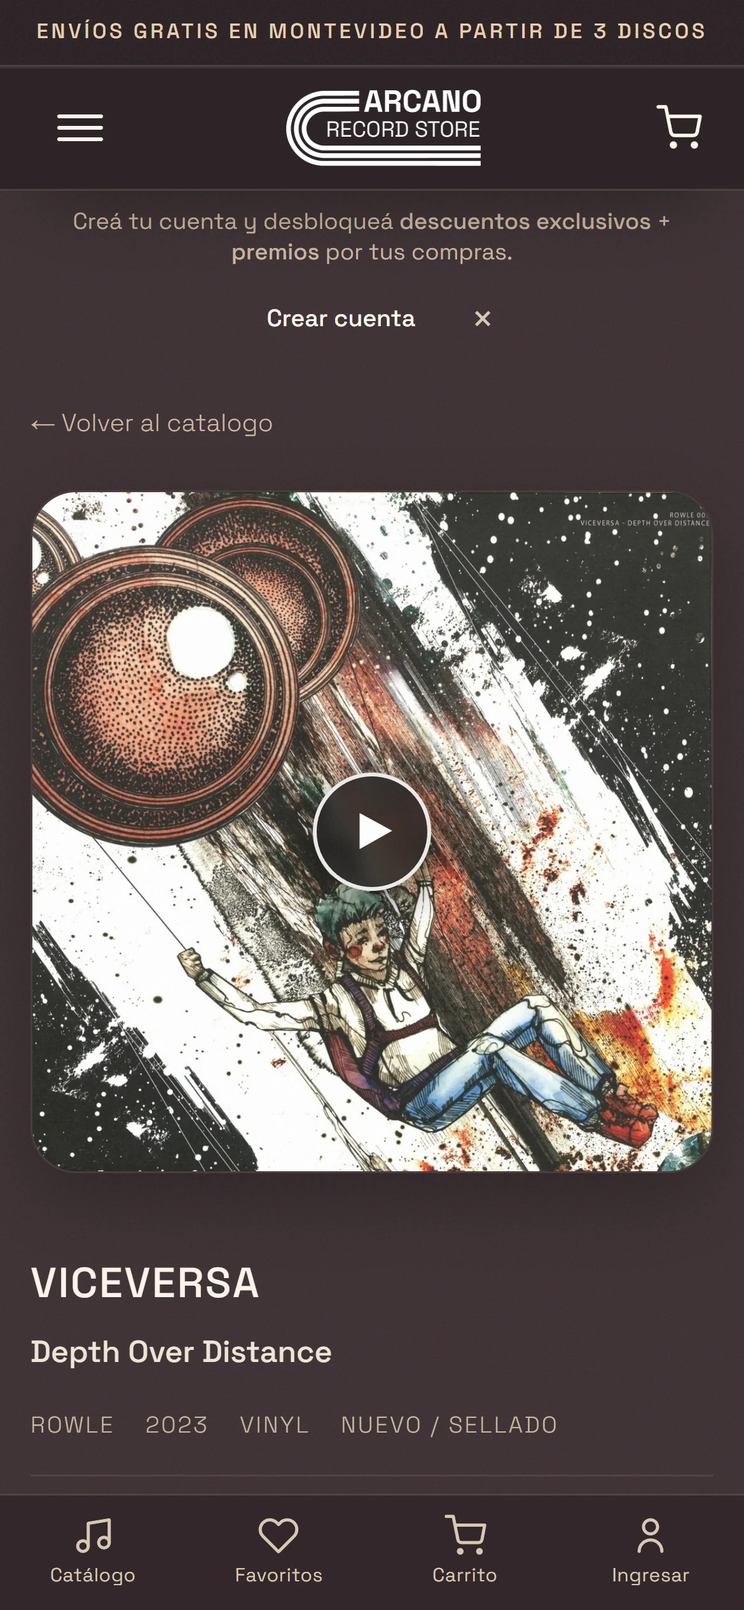
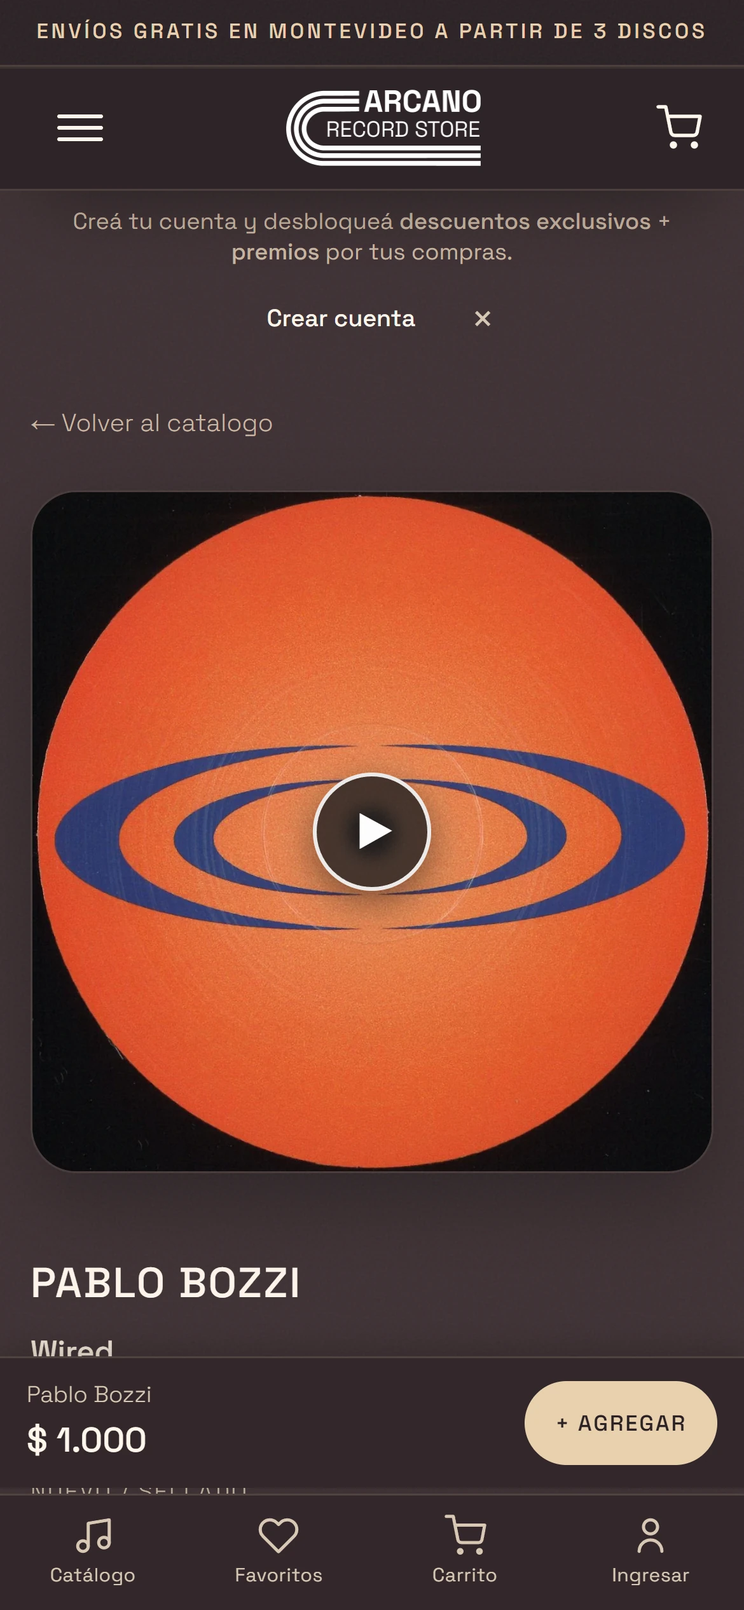
Capturas actualizadas de la tienda de Arcano y de Second Brain

diff --git a/index.html b/index.html
@@ -499,7 +499,7 @@ figcaption b { color: var(--ink); font-weight: 650; }
 <h2>Arcano Record Store</h2><p class="lede">Tienda online de mi disquería.</p>
 <div class="links"><a href="https://arcanorecordstore.com" target="_blank" rel="noopener">arcanorecordstore.com ↗</a><a href="https://github.com/arcanorecordstore-creator/arcano-stock" target="_blank" rel="noopener">Ver código ↗</a></div>
 <dl class="summary"><div><dt>Problema</dt><dd>Las ventas se realizaban exclusivamente a través de mensajes de Instagram.</dd></div><div><dt>Solución</dt><dd>Una tienda online conectada al stock real, en la que cada disco puede escucharse, reservarse o pagarse en línea.</dd></div><div><dt>Resultado</dt><dd>En funcionamiento desde agosto de 2026 en arcanorecordstore.com, con más de 50 ventas a través de la tienda online.</dd></div><div><dt>Mi rol</dt><dd>Como dueño del negocio y del producto, me encargué de la definición, el diseño, las pruebas y la publicación.</dd></div></dl>
-<figure class="comp"><div class="comp-stage"><div class="browser"><div class="bar"><i></i><i></i><i></i><em>arcanorecordstore.com</em></div><button class="shot" type="button"><img src="img/ar-t-home.webp?v=853b00f6" alt="Portada de la tienda con el buscador y el carrusel de destacados" loading="lazy" decoding="async" width="2880" height="1800"></button></div><div class="phone"><button class="shot" type="button"><img src="img/ar-t-m-disco.webp?v=1f4d5261" alt="Portada de la tienda con el buscador y el carrusel de destacados" loading="lazy" decoding="async" width="1170" height="2532"></button></div></div><figcaption><b>Portada.</b> Incluye el buscador, los beneficios de compra y el primer carrusel. Cada tapa cuenta con su propio botón de reproducción.</figcaption></figure>
+<figure class="comp"><div class="comp-stage"><div class="browser"><div class="bar"><i></i><i></i><i></i><em>arcanorecordstore.com</em></div><button class="shot" type="button"><img src="img/ar-t-home.webp?v=1f4bf4b1" alt="Portada de la tienda con el buscador y el carrusel de destacados" loading="lazy" decoding="async" width="2880" height="1800"></button></div><div class="phone"><button class="shot" type="button"><img src="img/ar-t-m-disco.webp?v=c917dbbd" alt="Portada de la tienda con el buscador y el carrusel de destacados" loading="lazy" decoding="async" width="1170" height="2532"></button></div></div><figcaption><b>Portada.</b> Incluye el buscador, los beneficios de compra y el primer carrusel. Cada tapa cuenta con su propio botón de reproducción.</figcaption></figure>
 <div class="body"><div class="prose">
 <section><h3>Decisiones de proyecto</h3><div class="decisions"><div class="decision"><h4>Venta anticipada mediante Pre-order</h4><p>Los discos de cada pedido se publican en Pre-order mientras están en tránsito. Esto permite que los clientes los reserven antes de su llegada, anticipar las ventas del pedido y conocer la demanda antes de realizar la siguiente compra.</p></div><div class="decision"><h4>La escucha como eje de la tienda</h4><p>En los vinilos de música electrónica, la decisión de compra se toma escuchando. Por ese motivo, el reproductor, las muestras de cada canción y el registro de escuchas ocupan un lugar central en la tienda.</p></div></div></section>
 </div><aside class="facts"><dl>
@@ -508,9 +508,9 @@ figcaption b { color: var(--ink); font-weight: 650; }
 <div><dt>Tecnologías</dt><dd class="tags"><span>Python</span><span>Flask</span><span>SQLAlchemy</span><span>SQLite</span><span>Jinja</span><span>JavaScript</span><span>Mercado Pago</span><span>Render</span><span>Cloudflare</span></dd></div>
 </dl></aside></div>
 <div class="gallery">
-<figure><div class="browser"><div class="bar"><i></i><i></i><i></i><em>arcanorecordstore.com</em></div><button class="shot" type="button"><img src="img/ar-t-nuevos.webp?v=2d8b83cb" alt="Nuevos ingresos. Los discos se presentan como vinilos que giran durante la reproducción." loading="lazy" decoding="async" width="2880" height="1800"></button></div><figcaption><b>Nuevos ingresos.</b> Los discos se presentan como vinilos que giran durante la reproducción.</figcaption></figure>
-<figure><div class="browser"><div class="bar"><i></i><i></i><i></i><em>arcanorecordstore.com/#catalogo</em></div><button class="shot" type="button"><img src="img/ar-t-catalogo.webp?v=835f68f7" alt="Catálogo. Filtros con la cantidad de discos por opción, vista en grilla o lista, e indicadores de Pre-order y Nuevo." loading="lazy" decoding="async" width="2880" height="1800"></button></div><figcaption><b>Catálogo.</b> Filtros con la cantidad de discos por opción, vista en grilla o lista, e indicadores de Pre-order y Nuevo.</figcaption></figure>
-<figure><div class="browser"><div class="bar"><i></i><i></i><i></i><em>arcanorecordstore.com/viceversa-depth-over-distance</em></div><button class="shot" type="button"><img src="img/ar-t-disco2.webp?v=193b7095" alt="Tracklist. Cada canción puede escucharse desde la ficha y continúa en el reproductor flotante." loading="lazy" decoding="async" width="2880" height="1800"></button></div><figcaption><b>Tracklist.</b> Cada canción puede escucharse desde la ficha y continúa en el reproductor flotante.</figcaption></figure>
+<figure><div class="browser"><div class="bar"><i></i><i></i><i></i><em>arcanorecordstore.com</em></div><button class="shot" type="button"><img src="img/ar-t-nuevos.webp?v=64c79a19" alt="Nuevos ingresos. Los discos se presentan como vinilos que giran durante la reproducción." loading="lazy" decoding="async" width="2880" height="1800"></button></div><figcaption><b>Nuevos ingresos.</b> Los discos se presentan como vinilos que giran durante la reproducción.</figcaption></figure>
+<figure><div class="browser"><div class="bar"><i></i><i></i><i></i><em>arcanorecordstore.com/#catalogo</em></div><button class="shot" type="button"><img src="img/ar-t-catalogo.webp?v=f31b0f5a" alt="Catálogo. Playlists para escuchar, filtros por género, año, precio y condición, vista en grilla o lista, e indicadores de Pre-order y Nuevo." loading="lazy" decoding="async" width="2880" height="1800"></button></div><figcaption><b>Catálogo.</b> Playlists para escuchar, filtros por género, año, precio y condición, vista en grilla o lista, e indicadores de Pre-order y Nuevo.</figcaption></figure>
+<figure><div class="browser"><div class="bar"><i></i><i></i><i></i><em>arcanorecordstore.com/pablo-bozzi-wired</em></div><button class="shot" type="button"><img src="img/ar-t-disco2.webp?v=fcec97e7" alt="Tracklist. Cada canción puede escucharse desde la ficha y continúa en el reproductor flotante." loading="lazy" decoding="async" width="2880" height="1800"></button></div><figcaption><b>Tracklist.</b> Cada canción puede escucharse desde la ficha y continúa en el reproductor flotante.</figcaption></figure>
 </div>
 </article>
 <article class="project wrap" id="stock-es" data-p="arcano">
@@ -558,7 +558,7 @@ figcaption b { color: var(--ink); font-weight: 650; }
 <h2>Second Brain</h2><p class="lede">Una única aplicación para registrar hábitos, escribir, controlar gastos y planificar la semana, que además relaciona los datos entre sí.</p>
 <div class="links"><a href="https://github.com/facundolapente-blip/second-brain" target="_blank" rel="noopener">Ver código ↗</a></div>
 <dl class="summary"><div><dt>Problema</dt><dd>Utilizaba cuatro aplicaciones pagas e independientes (HabitNow, My Diary, una app de gastos y Notion) que no se ajustaban del todo a mis necesidades.</dd></div><div><dt>Solución</dt><dd>Una única aplicación que las reemplaza, importa el historial de cada una e incorpora un tablero que integra toda la información. Suma además un bot de WhatsApp que, a partir de un comando, categoriza cada mensaje y lo carga en la aplicación sin necesidad de ingresar a ella.</dd></div><div><dt>Resultado</dt><dd>En uso diario desde octubre de 2026, con 114 versiones publicadas en 11 días.</dd></div><div><dt>Mi rol</dt><dd>Usuario, diseñador y responsable de producto. De cada aplicación conservé las funciones que mejor resultaban.</dd></div></dl>
-<figure class="comp"><div class="comp-stage"><div class="browser"><div class="bar"><i></i><i></i><i></i><em>Second Brain · Inicio</em></div><button class="shot" type="button"><img src="img/sb-inicio.webp?v=8a4d2b91" alt="Inicio de Second Brain con el resumen del día" loading="lazy" decoding="async" width="2880" height="1800"></button></div><div class="phone"><button class="shot" type="button"><img src="img/sb-m-habitos.webp?v=391f6c2d" alt="Inicio de Second Brain con el resumen del día" loading="lazy" decoding="async" width="1170" height="2532"></button></div></div><figcaption><b>Inicio.</b> Resumen del día en una frase, cinco indicadores clave y las listas de hábitos y del plan de hoy.</figcaption></figure>
+<figure class="comp"><div class="comp-stage"><div class="browser"><div class="bar"><i></i><i></i><i></i><em>Second Brain · Inicio</em></div><button class="shot" type="button"><img src="img/sb-inicio.webp?v=3d100947" alt="Inicio de Second Brain con el resumen del día" loading="lazy" decoding="async" width="2880" height="1800"></button></div><div class="phone"><button class="shot" type="button"><img src="img/sb-m-habitos.webp?v=15cc3375" alt="Inicio de Second Brain con el resumen del día" loading="lazy" decoding="async" width="1170" height="2532"></button></div></div><figcaption><b>Inicio.</b> Saludo con el resumen del día, la tarea prioritaria, el registro de cómo estás y el plan de hoy.</figcaption></figure>
 <div class="body"><div class="prose">
 <section><h3>Decisiones de proyecto</h3><div class="decisions"><div class="decision"><h4>Registro de gastos en segundos</h4><p>Un gasto se registra escribiendo una línea como &quot;350 almuerzo itau&quot;. La aplicación interpreta el monto, la cuenta y la fecha, y sugiere la categoría a partir de la clasificación de gastos anteriores.</p></div><div class="decision"><h4>Finanzas personales con criterio empresarial</h4><p>Incluye proyección del cierre del mes, presupuestos por categoría, tarjetas con fecha de cierre y cuotas, metas de ahorro y patrimonio en pesos según la cotización del día.</p></div></div></section>
 </div><aside class="facts"><dl>
@@ -566,9 +566,9 @@ figcaption b { color: var(--ink); font-weight: 650; }
 <div><dt>Tecnologías</dt><dd class="tags"><span>Next.js 16</span><span>React 19</span><span>TypeScript</span><span>Prisma</span><span>PostgreSQL</span><span>Tailwind</span><span>Recharts</span><span>Vercel</span></dd></div>
 </dl></aside></div>
 <div class="gallery">
-<figure><div class="browser"><div class="bar"><i></i><i></i><i></i><em>Second Brain · Gastos</em></div><button class="shot" type="button"><img src="img/sb-gastos.webp?v=0b4228cc" alt="Gastos. Carga rápida en lenguaje natural, saldos en pesos y dólares, y gasto por categoría." loading="lazy" decoding="async" width="2880" height="1800"></button></div><figcaption><b>Gastos.</b> Carga rápida en lenguaje natural, saldos en pesos y dólares, y gasto por categoría.</figcaption></figure>
-<figure><div class="browser"><div class="bar"><i></i><i></i><i></i><em>Second Brain · Plan semanal</em></div><button class="shot" type="button"><img src="img/sb-tareas.webp?v=8b2ae562" alt="Plan semanal. Tareas organizadas por estado, con prioridad y vencimiento, y debajo la semana en bloques." loading="lazy" decoding="async" width="2880" height="1800"></button></div><figcaption><b>Plan semanal.</b> Tareas organizadas por estado, con prioridad y vencimiento, y debajo la semana en bloques.</figcaption></figure>
-<figure><div class="browser"><div class="bar"><i></i><i></i><i></i><em>Second Brain · Análisis</em></div><button class="shot" type="button"><img src="img/sb-analisis.webp?v=a741b0f5" alt="Análisis. Relaciones entre módulos, con un mínimo de días por grupo para cada conclusión." loading="lazy" decoding="async" width="2880" height="1800"></button></div><figcaption><b>Análisis.</b> Relaciones entre módulos, con un mínimo de días por grupo para cada conclusión.</figcaption></figure>
+<figure><div class="browser"><div class="bar"><i></i><i></i><i></i><em>Second Brain · Gastos</em></div><button class="shot" type="button"><img src="img/sb-gastos.webp?v=2d43efe9" alt="Gastos. Carga rápida en lenguaje natural, saldos en pesos y dólares, y gasto por categoría." loading="lazy" decoding="async" width="2880" height="1800"></button></div><figcaption><b>Gastos.</b> Carga rápida en lenguaje natural, saldos en pesos y dólares, y gasto por categoría.</figcaption></figure>
+<figure><div class="browser"><div class="bar"><i></i><i></i><i></i><em>Second Brain · Plan semanal</em></div><button class="shot" type="button"><img src="img/sb-tareas.webp?v=70243786" alt="Plan semanal. Tareas organizadas por estado, con prioridad y vencimiento, y debajo la semana en bloques." loading="lazy" decoding="async" width="2880" height="1800"></button></div><figcaption><b>Plan semanal.</b> Tareas organizadas por estado, con prioridad y vencimiento, y debajo la semana en bloques.</figcaption></figure>
+<figure><div class="browser"><div class="bar"><i></i><i></i><i></i><em>Second Brain · Análisis</em></div><button class="shot" type="button"><img src="img/sb-analisis.webp?v=bb130fd6" alt="Análisis. Relaciones entre módulos, con un mínimo de días por grupo para cada conclusión." loading="lazy" decoding="async" width="2880" height="1800"></button></div><figcaption><b>Análisis.</b> Relaciones entre módulos, con un mínimo de días por grupo para cada conclusión.</figcaption></figure>
 </div>
 <p class="note">Las capturas utilizan una base de demostración, con hábitos, gastos y entradas ficticias.</p>
 </article>
@@ -606,7 +606,7 @@ figcaption b { color: var(--ink); font-weight: 650; }
 <h2>Arcano Record Store</h2><p class="lede">Online store of my record shop.</p>
 <div class="links"><a href="https://arcanorecordstore.com" target="_blank" rel="noopener">arcanorecordstore.com ↗</a><a href="https://github.com/arcanorecordstore-creator/arcano-stock" target="_blank" rel="noopener">View code ↗</a></div>
 <dl class="summary"><div><dt>Problem</dt><dd>Sales were handled exclusively through Instagram messages.</dd></div><div><dt>Solution</dt><dd>An online store connected to real inventory, where each record can be played, reserved or paid for online.</dd></div><div><dt>Outcome</dt><dd>Running since August 2026 at arcanorecordstore.com, with more than 50 sales through the online store.</dd></div><div><dt>My role</dt><dd>As owner of the business and the product, I handled its definition, design, testing and release.</dd></div></dl>
-<figure class="comp"><div class="comp-stage"><div class="browser"><div class="bar"><i></i><i></i><i></i><em>arcanorecordstore.com</em></div><button class="shot" type="button"><img src="img/ar-t-home.webp?v=853b00f6" alt="Store home page with search and the featured carousel" loading="lazy" decoding="async" width="2880" height="1800"></button></div><div class="phone"><button class="shot" type="button"><img src="img/ar-t-m-disco.webp?v=1f4d5261" alt="Store home page with search and the featured carousel" loading="lazy" decoding="async" width="1170" height="2532"></button></div></div><figcaption><b>Home page.</b> It includes search, purchase benefits and the first carousel. Each cover has its own play button.</figcaption></figure>
+<figure class="comp"><div class="comp-stage"><div class="browser"><div class="bar"><i></i><i></i><i></i><em>arcanorecordstore.com</em></div><button class="shot" type="button"><img src="img/ar-t-home.webp?v=1f4bf4b1" alt="Store home page with search and the featured carousel" loading="lazy" decoding="async" width="2880" height="1800"></button></div><div class="phone"><button class="shot" type="button"><img src="img/ar-t-m-disco.webp?v=c917dbbd" alt="Store home page with search and the featured carousel" loading="lazy" decoding="async" width="1170" height="2532"></button></div></div><figcaption><b>Home page.</b> It includes search, purchase benefits and the first carousel. Each cover has its own play button.</figcaption></figure>
 <div class="body"><div class="prose">
 <section><h3>Project decisions</h3><div class="decisions"><div class="decision"><h4>Advance sales through Pre-order</h4><p>Records from each order are listed as Pre-order while in transit. This allows customers to reserve them before arrival, brings forward the order&#x27;s sales and reveals demand before the next purchase.</p></div><div class="decision"><h4>Listening at the core of the store</h4><p>In electronic music vinyl, purchase decisions are made by listening. For that reason, the player, the samples of each track and play tracking are central to the store.</p></div></div></section>
 </div><aside class="facts"><dl>
@@ -615,9 +615,9 @@ figcaption b { color: var(--ink); font-weight: 650; }
 <div><dt>Technologies</dt><dd class="tags"><span>Python</span><span>Flask</span><span>SQLAlchemy</span><span>SQLite</span><span>Jinja</span><span>JavaScript</span><span>Mercado Pago</span><span>Render</span><span>Cloudflare</span></dd></div>
 </dl></aside></div>
 <div class="gallery">
-<figure><div class="browser"><div class="bar"><i></i><i></i><i></i><em>arcanorecordstore.com</em></div><button class="shot" type="button"><img src="img/ar-t-nuevos.webp?v=2d8b83cb" alt="New arrivals. Records are displayed as vinyl that spins during playback." loading="lazy" decoding="async" width="2880" height="1800"></button></div><figcaption><b>New arrivals.</b> Records are displayed as vinyl that spins during playback.</figcaption></figure>
-<figure><div class="browser"><div class="bar"><i></i><i></i><i></i><em>arcanorecordstore.com/#catalogo</em></div><button class="shot" type="button"><img src="img/ar-t-catalogo.webp?v=835f68f7" alt="Catalog. Filters showing the number of records per option, grid or list view, and Pre-order and New indicators." loading="lazy" decoding="async" width="2880" height="1800"></button></div><figcaption><b>Catalog.</b> Filters showing the number of records per option, grid or list view, and Pre-order and New indicators.</figcaption></figure>
-<figure><div class="browser"><div class="bar"><i></i><i></i><i></i><em>arcanorecordstore.com/viceversa-depth-over-distance</em></div><button class="shot" type="button"><img src="img/ar-t-disco2.webp?v=193b7095" alt="Tracklist. Each track can be played from the record page and continues in the floating player." loading="lazy" decoding="async" width="2880" height="1800"></button></div><figcaption><b>Tracklist.</b> Each track can be played from the record page and continues in the floating player.</figcaption></figure>
+<figure><div class="browser"><div class="bar"><i></i><i></i><i></i><em>arcanorecordstore.com</em></div><button class="shot" type="button"><img src="img/ar-t-nuevos.webp?v=64c79a19" alt="New arrivals. Records are displayed as vinyl that spins during playback." loading="lazy" decoding="async" width="2880" height="1800"></button></div><figcaption><b>New arrivals.</b> Records are displayed as vinyl that spins during playback.</figcaption></figure>
+<figure><div class="browser"><div class="bar"><i></i><i></i><i></i><em>arcanorecordstore.com/#catalogo</em></div><button class="shot" type="button"><img src="img/ar-t-catalogo.webp?v=f31b0f5a" alt="Catalog. Listening playlists, filters by genre, year, price and condition, grid or list view, and Pre-order and New indicators." loading="lazy" decoding="async" width="2880" height="1800"></button></div><figcaption><b>Catalog.</b> Listening playlists, filters by genre, year, price and condition, grid or list view, and Pre-order and New indicators.</figcaption></figure>
+<figure><div class="browser"><div class="bar"><i></i><i></i><i></i><em>arcanorecordstore.com/pablo-bozzi-wired</em></div><button class="shot" type="button"><img src="img/ar-t-disco2.webp?v=fcec97e7" alt="Tracklist. Each track can be played from the record page and continues in the floating player." loading="lazy" decoding="async" width="2880" height="1800"></button></div><figcaption><b>Tracklist.</b> Each track can be played from the record page and continues in the floating player.</figcaption></figure>
 </div>
 </article>
 <article class="project wrap" id="stock-en" data-p="arcano">
@@ -665,7 +665,7 @@ figcaption b { color: var(--ink); font-weight: 650; }
 <h2>Second Brain</h2><p class="lede">A single app to track habits, write, manage expenses and plan the week, which also relates the data across them.</p>
 <div class="links"><a href="https://github.com/facundolapente-blip/second-brain" target="_blank" rel="noopener">View code ↗</a></div>
 <dl class="summary"><div><dt>Problem</dt><dd>I used four separate paid apps (HabitNow, My Diary, an expense app and Notion) that did not fully fit my needs.</dd></div><div><dt>Solution</dt><dd>A single app that replaces them, imports each one&#x27;s history and adds a dashboard that brings all the information together. It also includes a WhatsApp bot that, based on a command, categorizes each message and loads it into the app without having to open it.</dd></div><div><dt>Outcome</dt><dd>In daily use since October 2026, with 114 releases published in 11 days.</dd></div><div><dt>My role</dt><dd>User, designer and product owner. From each app, I kept the features that worked best.</dd></div></dl>
-<figure class="comp"><div class="comp-stage"><div class="browser"><div class="bar"><i></i><i></i><i></i><em>Second Brain · Home</em></div><button class="shot" type="button"><img src="img/sb-inicio.webp?v=8a4d2b91" alt="Second Brain home with the day summary" loading="lazy" decoding="async" width="2880" height="1800"></button></div><div class="phone"><button class="shot" type="button"><img src="img/sb-m-habitos.webp?v=391f6c2d" alt="Second Brain home with the day summary" loading="lazy" decoding="async" width="1170" height="2532"></button></div></div><figcaption><b>Home.</b> A one-sentence summary of the day, five key indicators, and today&#x27;s habits and plan.</figcaption></figure>
+<figure class="comp"><div class="comp-stage"><div class="browser"><div class="bar"><i></i><i></i><i></i><em>Second Brain · Home</em></div><button class="shot" type="button"><img src="img/sb-inicio.webp?v=3d100947" alt="Second Brain home with the day summary" loading="lazy" decoding="async" width="2880" height="1800"></button></div><div class="phone"><button class="shot" type="button"><img src="img/sb-m-habitos.webp?v=15cc3375" alt="Second Brain home with the day summary" loading="lazy" decoding="async" width="1170" height="2532"></button></div></div><figcaption><b>Home.</b> A greeting with the day summary, the priority task, the mood check-in and today&#x27;s plan.</figcaption></figure>
 <div class="body"><div class="prose">
 <section><h3>Project decisions</h3><div class="decisions"><div class="decision"><h4>Logging expenses in seconds</h4><p>An expense is logged by typing a line such as &quot;350 lunch itau&quot;. The app interprets the amount, account and date, and suggests a category based on how previous expenses were classified.</p></div><div class="decision"><h4>Personal finance with a business approach</h4><p>It includes month-end projection, category budgets, credit cards with statement dates and installments, savings goals, and net worth in pesos at the day&#x27;s exchange rate.</p></div></div></section>
 </div><aside class="facts"><dl>
@@ -673,9 +673,9 @@ figcaption b { color: var(--ink); font-weight: 650; }
 <div><dt>Technologies</dt><dd class="tags"><span>Next.js 16</span><span>React 19</span><span>TypeScript</span><span>Prisma</span><span>PostgreSQL</span><span>Tailwind</span><span>Recharts</span><span>Vercel</span></dd></div>
 </dl></aside></div>
 <div class="gallery">
-<figure><div class="browser"><div class="bar"><i></i><i></i><i></i><em>Second Brain · Expenses</em></div><button class="shot" type="button"><img src="img/sb-gastos.webp?v=0b4228cc" alt="Expenses. Natural-language quick entry, balances in pesos and dollars, and spending by category." loading="lazy" decoding="async" width="2880" height="1800"></button></div><figcaption><b>Expenses.</b> Natural-language quick entry, balances in pesos and dollars, and spending by category.</figcaption></figure>
-<figure><div class="browser"><div class="bar"><i></i><i></i><i></i><em>Second Brain · Weekly plan</em></div><button class="shot" type="button"><img src="img/sb-tareas.webp?v=8b2ae562" alt="Weekly plan. Tasks organized by status, with priority and due date, and the week in blocks below." loading="lazy" decoding="async" width="2880" height="1800"></button></div><figcaption><b>Weekly plan.</b> Tasks organized by status, with priority and due date, and the week in blocks below.</figcaption></figure>
-<figure><div class="browser"><div class="bar"><i></i><i></i><i></i><em>Second Brain · Insights</em></div><button class="shot" type="button"><img src="img/sb-analisis.webp?v=a741b0f5" alt="Insights. Relationships between modules, with a minimum number of days per group for each finding." loading="lazy" decoding="async" width="2880" height="1800"></button></div><figcaption><b>Insights.</b> Relationships between modules, with a minimum number of days per group for each finding.</figcaption></figure>
+<figure><div class="browser"><div class="bar"><i></i><i></i><i></i><em>Second Brain · Expenses</em></div><button class="shot" type="button"><img src="img/sb-gastos.webp?v=2d43efe9" alt="Expenses. Natural-language quick entry, balances in pesos and dollars, and spending by category." loading="lazy" decoding="async" width="2880" height="1800"></button></div><figcaption><b>Expenses.</b> Natural-language quick entry, balances in pesos and dollars, and spending by category.</figcaption></figure>
+<figure><div class="browser"><div class="bar"><i></i><i></i><i></i><em>Second Brain · Weekly plan</em></div><button class="shot" type="button"><img src="img/sb-tareas.webp?v=70243786" alt="Weekly plan. Tasks organized by status, with priority and due date, and the week in blocks below." loading="lazy" decoding="async" width="2880" height="1800"></button></div><figcaption><b>Weekly plan.</b> Tasks organized by status, with priority and due date, and the week in blocks below.</figcaption></figure>
+<figure><div class="browser"><div class="bar"><i></i><i></i><i></i><em>Second Brain · Insights</em></div><button class="shot" type="button"><img src="img/sb-analisis.webp?v=bb130fd6" alt="Insights. Relationships between modules, with a minimum number of days per group for each finding." loading="lazy" decoding="async" width="2880" height="1800"></button></div><figcaption><b>Insights.</b> Relationships between modules, with a minimum number of days per group for each finding.</figcaption></figure>
 </div>
 <p class="note">Screenshots use a demo database with fictitious habits, expenses and entries.</p>
 </article>
